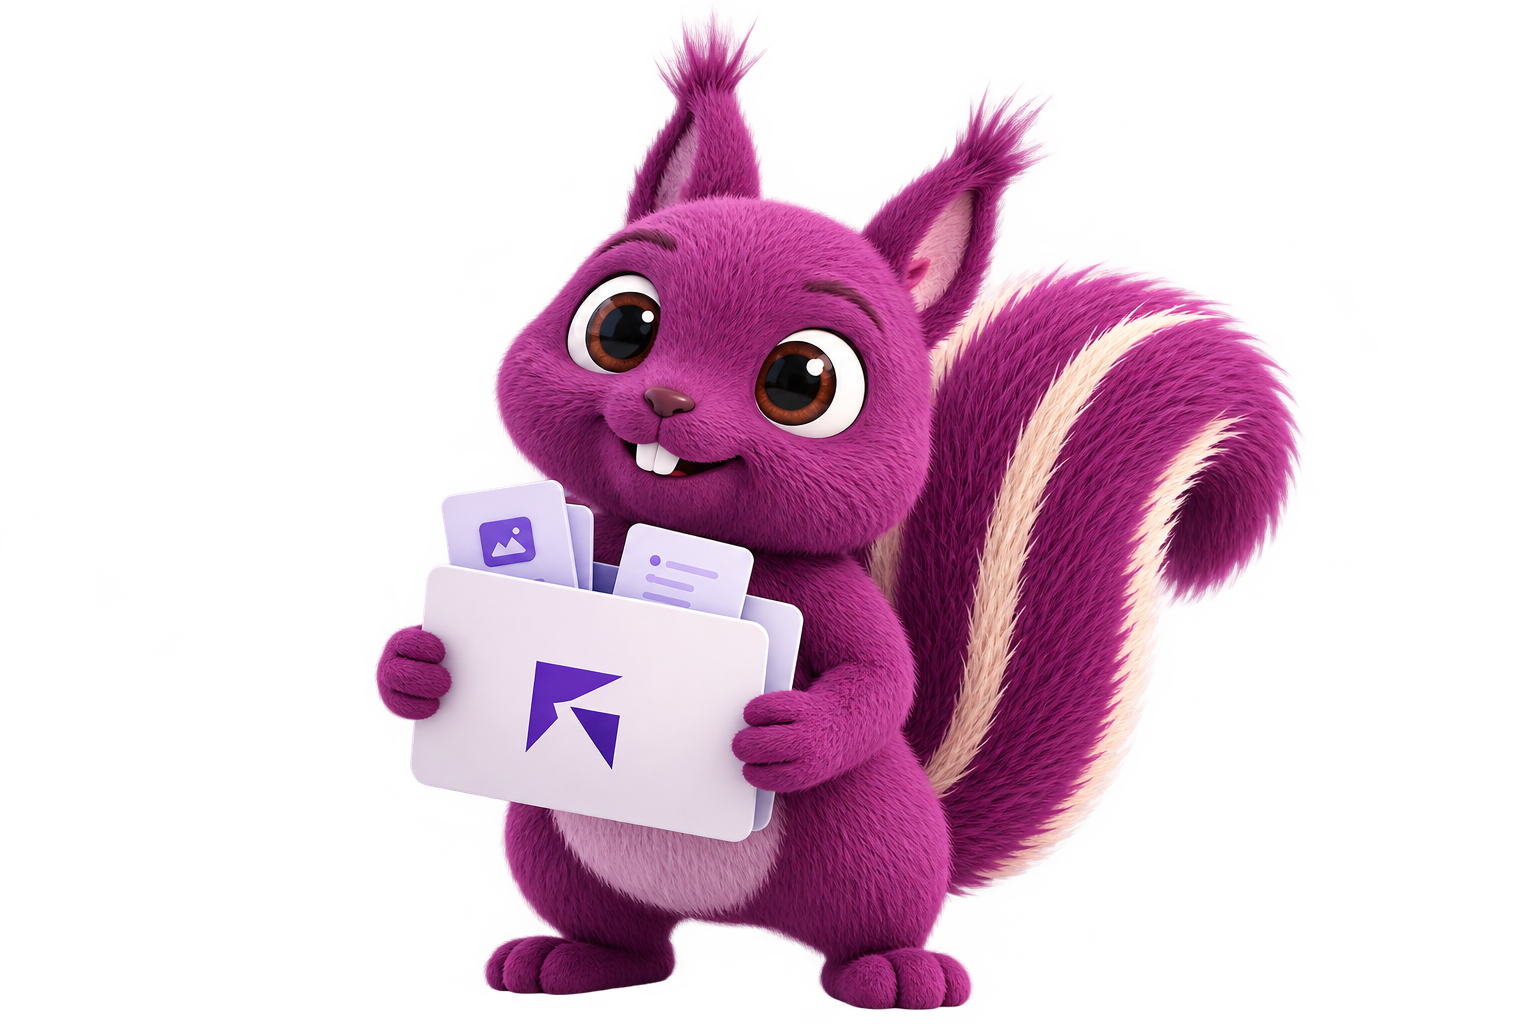
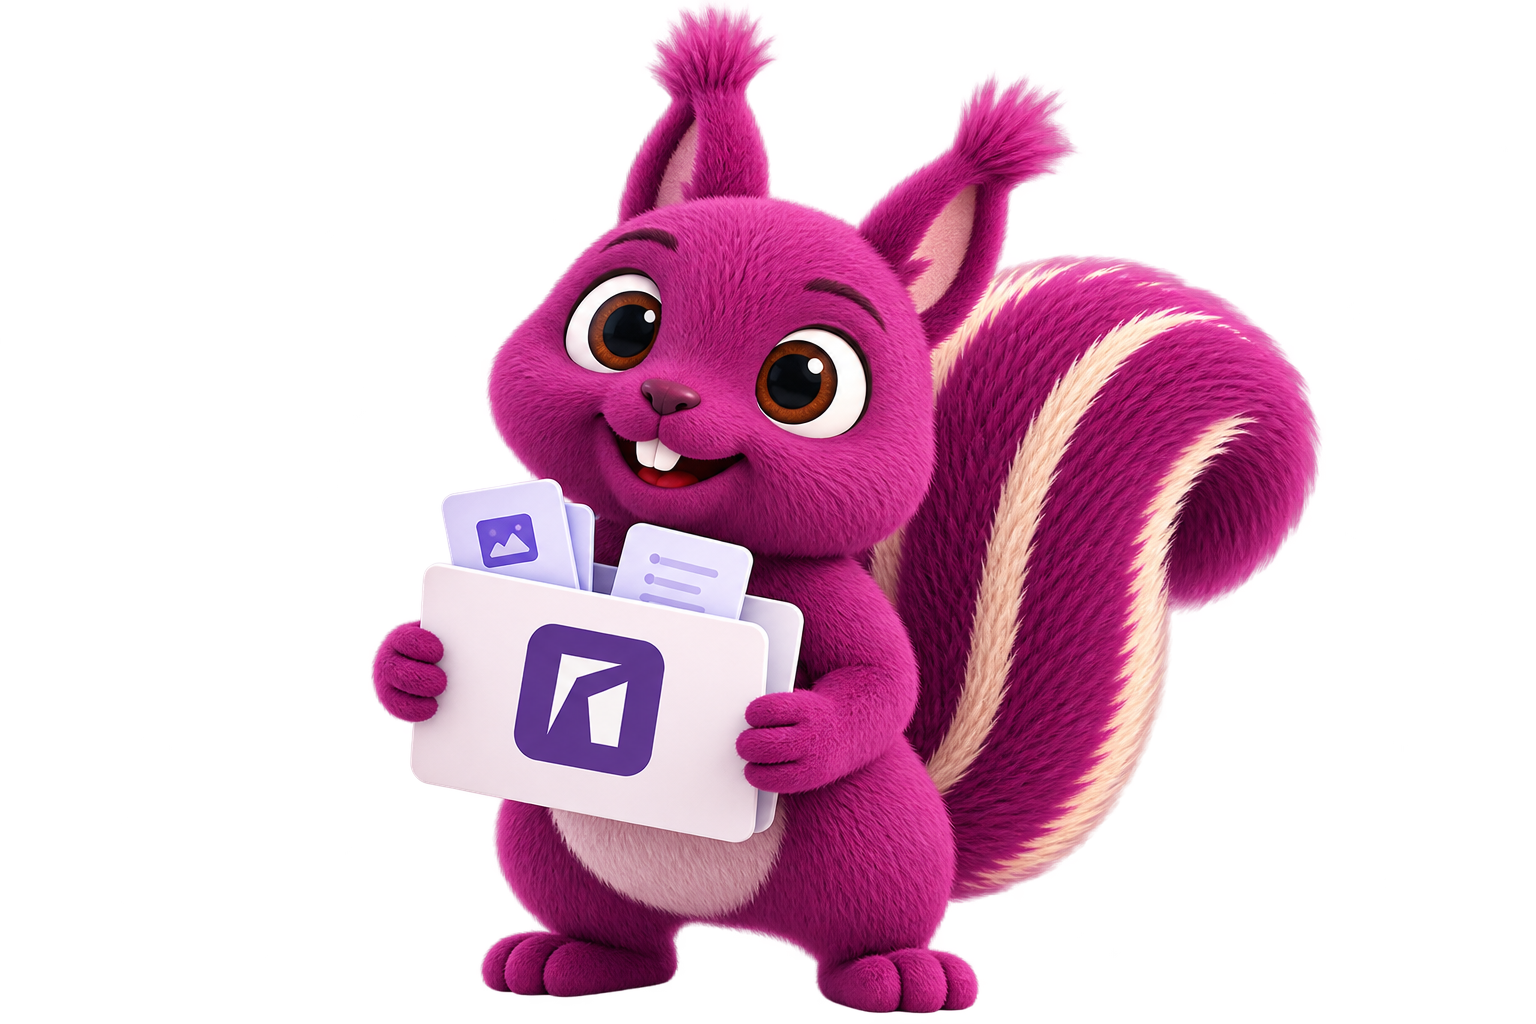
Use latest supplied landing mascot image

Changed region(s): [[0.2188, 0.0, 0.875, 1.0]]

diff --git a/docs/early-access/README.md b/docs/early-access/README.md
@@ -21,7 +21,7 @@ All implementation files live in `simplelifepack/frontend-web`, at `/Users/ranji
 | `src/components/EarlyAccessLanding.test.tsx` | Registration validation, loading/success, duplicate email, retry, unmount cancellation, Sign In and theme behavior. |
 | `public/images/early-access-background-light.png` | Original supplied Lavender Light Modern Showroom PNG, byte-for-byte. |
 | `public/images/early-access-background-dark.png` | Original supplied Midnight Atrium in Violet Light PNG, byte-for-byte. |
-| `public/images/early-access-squirrel.png` | Original supplied folder-holding squirrel PNG, byte-for-byte, separate from background. |
+| `public/images/early-access-squirrel.png` | Latest user-supplied mascot (`codex-clipboard-a2ab9a4e-fcd3-4755-911a-d41e4719766f.png`), byte-for-byte, separate from background. |
 
 The original `Landing*` component files, `src/pages/landing/index.tsx`, `BrandLogo.tsx`, design-system/theme files and waitlist API client have no diff from base `3434bfa`. No backend, payment, dependency, package, build configuration or deployment change is included.
 
@@ -39,6 +39,8 @@ The original `Landing*` component files, `src/pages/landing/index.tsx`, `BrandLo
 ## Visual notes
 
 The supplied room PNG backgrounds are used directly, without gradients or stretching; `cover` crops their edges to fit different viewports. The transparent mascot remains separate. The repository's official BrandMark/BrandWordmark and semantic palette remain authoritative, so they differ from the reference's wordmark spelling and vivid dark CTA. Layout refinements and Sign In restoration were made before the final routing correction; the routing correction itself does not change the design.
+
+The mascot was subsequently replaced with the latest supplied transparent PNG (same 1536×1024 dimensions); earlier screenshots below show the prior mascot. Layout and functionality were unchanged.
 
 ## Actual screenshots
 
